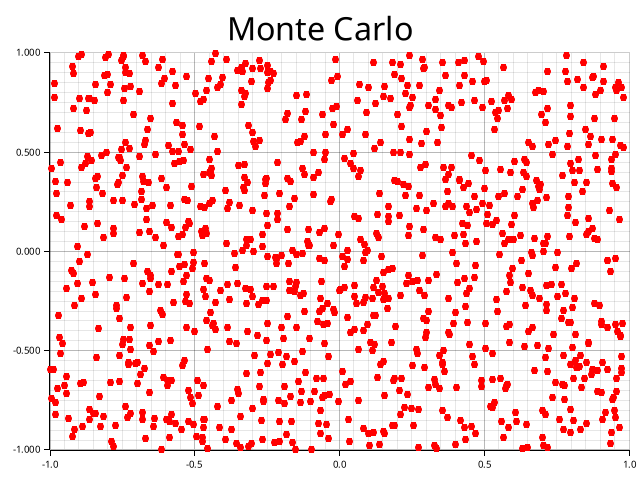
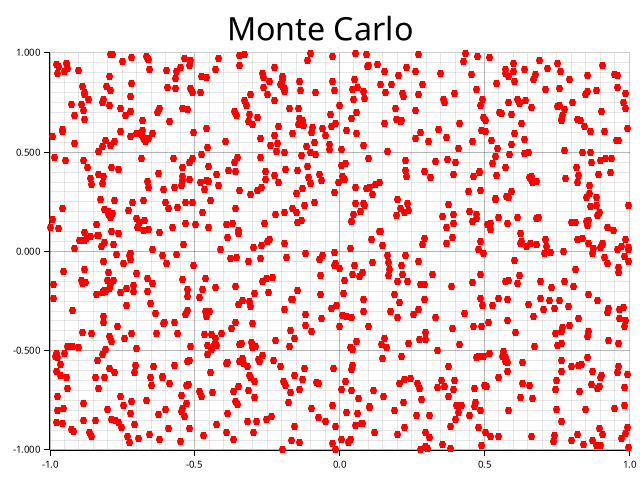
image to readme

Changed region(s): [[0.0625, 0.0938, 1.0, 0.9688], [0.9688, 0.4062, 1.0, 0.4375]]

diff --git a/readme.md b/readme.md
@@ -1,3 +1,5 @@
 # Monte Carlo
 
 - Run this before running the program `mkdir -p plotters-doc-data`
+
+![demo](plotters-doc-data/1.png)